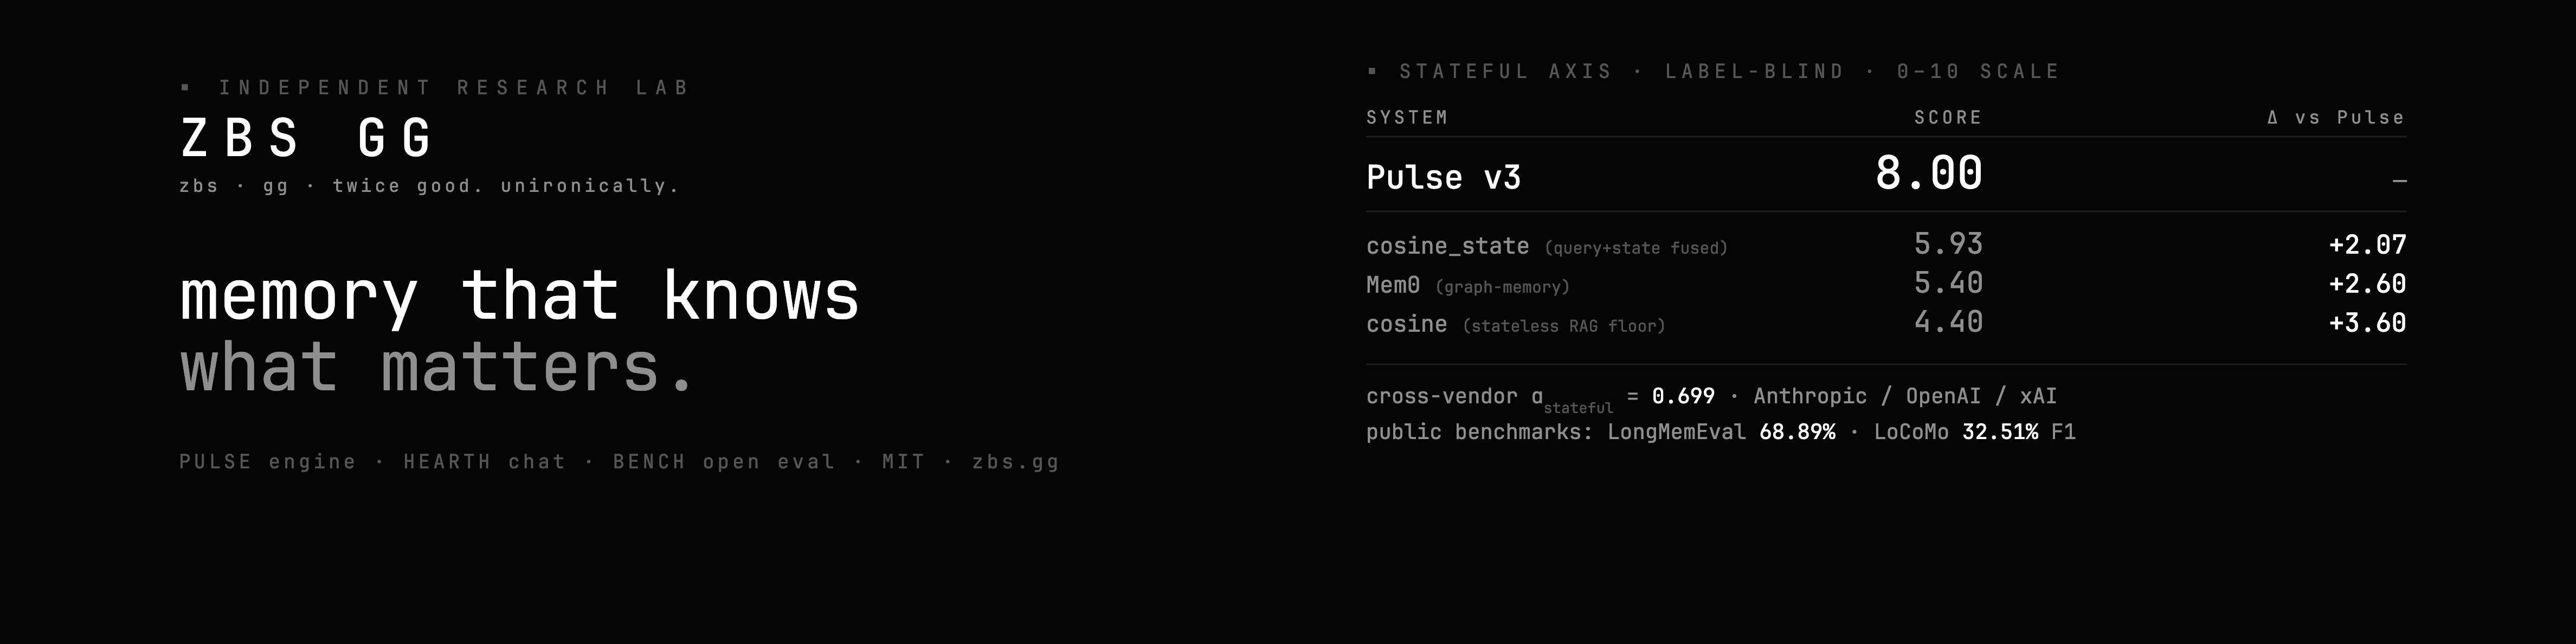
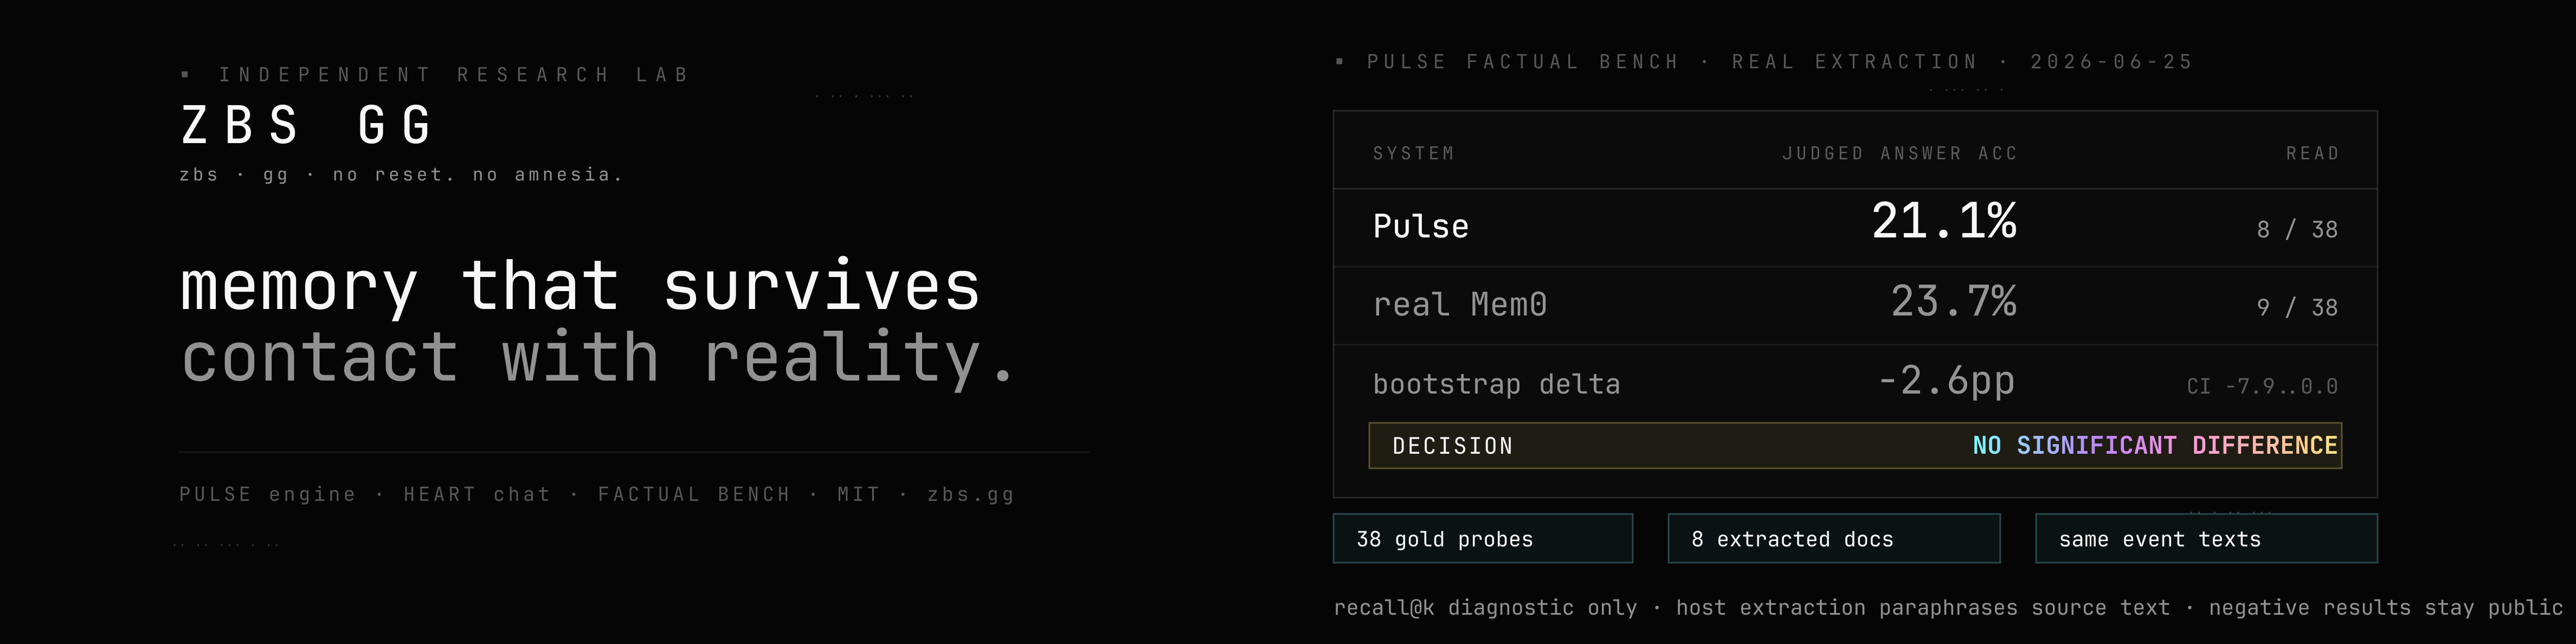
/cartographer restored (Insights belongs to eye) + use cases + 5-step explainer
Cartographer is the engine's public name; /insights is freed for the eye product.
Page gains: use-cases section (#uses, honest about manual ingest today), a 5-step
explainer inside #how (observe / hypothesize / weigh / ask / hand off), real MCP
tool names (cartographer_ingest/_map/_review/_redact), nav entry. Builds clean,
route static. NOT deployed — deploy on Nik's go after canon-lint.

diff --git a/AGENTS.md b/AGENTS.md
@@ -1,0 +1,43 @@
+# zbs-site — agent rules
+
+Лендинг zbs.gg — корпоративное лицо ZBS GG Consulting и семьи Garden (Pulse,
+Heart, bench). Next.js 15 + React 19 + Three.js: ASCII-шейдер поверх видео
+Элли. Плюс `/preview` — публичная install-страница Pulse (дистрибуция).
+
+## Verify
+
+ОДНА команда — единственный гейт «сделано/не сделано» для любого агент-лупа:
+
+```bash
+npm run verify
+```
+
+Внутри: `tsc --noEmit` + `node scripts/check-preview-copy.mjs`
+(копи-инвариант install-строки `claude mcp add pulse …` на /preview) +
+`next build`. Exit 0 = деплоябельно; не-ноль = вывод фейла — дельта-спека
+следующей итерации. Прогон пишет JSONL-строку в `~/.claude/verify-log.jsonl`.
+
+## Layout
+
+```text
+app/         — App Router: page.tsx (лендинг), preview/ (install Pulse), bench/, dev/
+components/  — Three.js canvas + ASCII postprocessing-эффект (порт Efecto)
+scripts/     — check-preview-copy.mjs: hard-fail при регрессе публичного install-копи
+public/      — статика (видео-текстура Элли и пр.)
+archive/     — zip старой версии сайта — не трогать
+```
+
+## Canon
+
+Гарден-имена: «Элли» не склоняется, женский род. Pulse / Heart / Atlas /
+Garden — с большой буквы, без переводов. Тон публичных поверхностей:
+«покажи, не продавай» — живое демо вместо обещаний.
+Полный канон: `Garden/docs/canon.md` (создаётся; этот указатель — вперёд).
+
+## Don't
+
+- Публичная поверхность: никаких личных данных, имён клиентов, внутренних путей.
+- Install-копи на `/preview` менять только вместе с `check-preview-copy.mjs` (это продуктовый инвариант, не текст).
+- ESLint в репо нет — не добавлять «заодно» (additive-правило).
+- Никакого auto-merge: PR ждёт человека, даже при зелёном verify.
+- Prosha (ChatGPT Pro) — только webchat через `check-with-pro`, API-вызовы Pro не создавать.

diff --git a/CLAUDE.md b/CLAUDE.md
@@ -1,0 +1,3 @@
[email redacted]
+Claude-специфика: для визуальных правок — скилл `frontend-design`; живую проверку страницы делать через Playwright-плагин (browser_navigate → screenshot), не «на глаз».
+После нетривиального коммита — subagent `post-commit-verifier` поверх `npm run verify`.